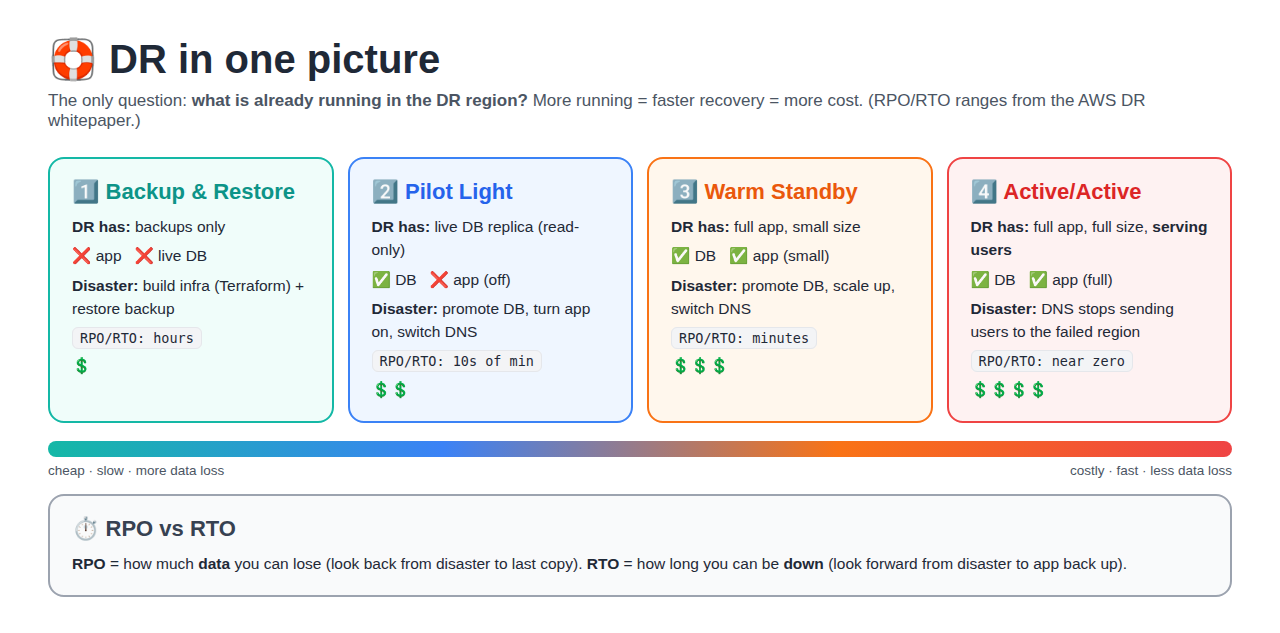
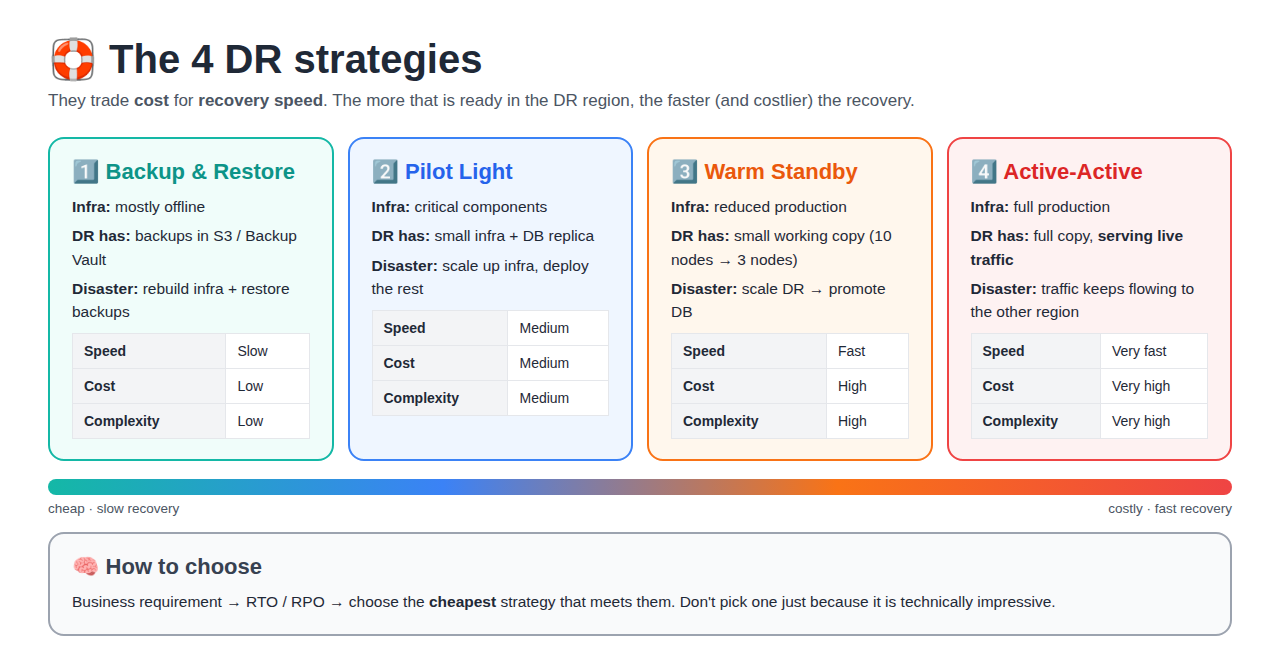
Disaster Recovery: align strategies, image and table with class notes

diff --git a/disaster-recovery/README.md b/disaster-recovery/README.md
@@ -97,95 +97,105 @@ The answers pick one of **4 strategies**, from cheap and slow to costly and inst
 
 ## 2. The 4 DR Strategies
 
+AWS groups DR into **4 strategies**. They trade **cost** for **recovery speed**.
+
 ### 1⃣ Backup & Restore
 
-**Definition:** Keep backups in another region. When disaster hits, rebuild everything from them.
+**Definition:** Take backups and **rebuild** the environment when a disaster happens.
 
 ```
-PRIMARY                       DR REGION
-App + DB  ── backups ──▶  snapshots, AMIs, S3 copies   (nothing running)
+PRIMARY REGION
+      │
+      ▼
+   Backups
+      │
+      ▼
+S3 / Backup Vault   (other region · nothing running)
 ```
 
-- **On disaster:** `terraform apply` → restore DB from snapshot → deploy app → switch DNS
-- **RPO / RTO:** hours · **Cost:** 💲 lowest
-- **Back up more than the DB:** AMIs, config and IaC code too (AWS says use IaC, or rebuild is slow)
-- **Use for:** internal tools, dev/test, reports
+- **On disaster:** rebuild infra (Terraform) → restore data from backups → deploy app → switch DNS
+- **AWS examples:** AWS Backup, S3, EBS snapshots, RDS snapshots, S3 Object Lock, cross-region backups
+- **Advantages:** low cost, simple, good for less-critical workloads
+- **Disadvantages:** slow recovery, more recovery work, higher RTO
 
-> **Interview line:** "Backup and restore keeps backups in another region and rebuilds the infra and app from them during a disaster."
+> **Interview answer:** "Backup and restore means keeping recoverable backups in another location and rebuilding the infrastructure and application when a disaster occurs."
 
 ### 2⃣ Pilot Light
 
-**Definition:** Only the core (the database) is live in the DR region. The app is **off**.
+**Definition:** Keep the **critical components ready**, but don't run the full production environment.
 
 ```
-PRIMARY                       DR REGION
-EKS / EC2 + DB ─ replication ─▶ DB replica (read-only, LIVE)
-                                 App servers OFF (0 instances)
+PRIMARY                     DR REGION
+EKS + Database              Small infrastructure
+      │                     +
+      └── replication ───▶  Database replica
 ```
 
-- **On disaster:** promote replica → writer, turn app on, switch DNS
-- **RPO / RTO:** 10s of minutes · **Cost:** 💲💲
-- **Name meaning:** like a gas stove pilot flame: small flame always on, turn up when needed
+- **On disaster:** scale up the infrastructure and deploy the rest of the environment, promote the DB, switch DNS
+- **Critical components** = data (DB replica) + core infra (VPC, small cluster). The app is **not serving** traffic yet.
+- **Name meaning:** like a gas stove pilot flame: small flame always on, turn it up when needed
 
-> **Interview line:** "Pilot light keeps the critical parts (data) ready in the DR region so the full environment can be switched on quickly."
+> **Interview answer:** "Pilot light keeps critical infrastructure and data ready in the DR region so the environment can be activated quickly during a disaster."
 
 ### 3⃣ Warm Standby
 
-**Definition:** A **small but working** copy of production always runs in the DR region.
+**Definition:** Run a **smaller working version** of production in the DR region.
 
 ```
-PRIMARY                       DR REGION
-10 nodes + DB ─ replication ─▶ 3 nodes + DB replica (read-only)
-                               already RUNNING
+PRIMARY  10 nodes
+            │ replication
+            ▼
+DR        3 nodes   (already running)
 ```
 
-- **On disaster:** promote DB → scale 3 nodes to 10 → switch DNS
-- **RPO / RTO:** minutes · **Cost:** 💲💲💲
-- **DB is still read-only** until promoted, so before failover it serves only reads / test traffic
+- **On disaster:** scale DR (3 → 10 nodes) → promote database → switch DNS
+- **DB in DR is read-only** until promoted, so before failover it serves only reads / test traffic
 
-> **Interview line:** "Warm standby runs a scaled-down but working copy of production that we scale up during failover."
+> **Interview answer:** "Warm standby maintains a scaled-down but functional version of production that can be scaled during failover."
 
 #### Pilot Light vs Warm Standby (most confused)
 
 | | Pilot Light | Warm Standby |
 |---|---|---|
-| App in DR | **Off** | **Running (small)** |
-| Can take traffic right now? | ❌ No, must switch on first | ✅ Yes, at low capacity |
-| On disaster | Turn on + scale up | Only scale up |
+| What runs in DR | Critical components only (small infra + DB replica) | Small **working** copy of the full app |
+| Can take traffic right now? | ❌ No, deploy/scale the rest first | ✅ Yes, at low capacity |
+| On disaster | Scale up + deploy the rest | Only scale up |
 
-*(AWS whitepaper: "pilot light cannot process requests without additional action, warm standby can handle traffic at reduced capacity immediately.")*
+### 4⃣ Active-Active
 
-### 4⃣ Active/Active (Multi-site)
-
-**Definition:** **Both regions run full size and serve users at the same time.**
+**Definition:** **Both environments actively serve production traffic.**
 
 ```
-              Global DNS (Route 53)
-               ┌──────┴──────┐
-           REGION A       REGION B
-             EKS            EKS
-           Database ◀─────▶ Database
+            GLOBAL DNS
+                │
+     ┌──────────┴──────────┐
+  REGION A              REGION B
+     │                     │
+    EKS                   EKS
+     │                     │
+  Database              Database
 ```
 
-- **On disaster:** DNS just stops sending users to the failed region (no real "failover")
-- **RPO / RTO:** near zero · **Cost:** 💲💲💲💲 highest, most complex
-- **DB must accept writes in both regions:** DynamoDB Global Tables (Aurora Global = one writer + fast promote)
-- **Use for:** payments, banking, big e-commerce
+- **On disaster:** traffic keeps flowing through the other region
+- **Advantages:** very fast recovery, no break for users if one region fails
+- **Disadvantages:** highest cost, highest complexity, data consistency challenges (both DBs take writes), more operations work
+- **DB for writes in both regions:** DynamoDB Global Tables
 
-> **Interview line:** "Active-active runs the workload in multiple regions at once, so if one fails, traffic continues through the other."
+> **Interview answer:** "Active-active runs workloads in multiple locations simultaneously so traffic can continue through another location if one fails."
 
 ---
 
 ## 3. Comparison Table
 
-| Strategy | What runs in DR | RPO / RTO (AWS) | Cost | Complexity |
+| Strategy | Infrastructure | Recovery Speed | Cost | Complexity |
 |---|---|---|---|---|
-| Backup & Restore | Only backups | Hours | Low | Low |
-| Pilot Light | DB replica (app off) | 10s of minutes | Medium | Medium |
-| Warm Standby | Small full stack | Minutes | High | High |
-| Active/Active | Full stack, serving users | Near zero | Very high | Very high |
+| Backup & Restore | Mostly offline | Slow | Low | Low |
+| Pilot Light | Critical components | Medium | Medium | Medium |
+| Warm Standby | Reduced production | Fast | High | High |
+| Active-Active | Full production | Very fast | Very high | Very high |
 
-> These are rough ranges. Real numbers depend on the app and how well it is automated.
+> These are **relative** comparisons. Actual recovery times depend on the workload and implementation.
+> For a rough idea, the AWS whitepaper gives RPO/RTO of: hours · tens of minutes · minutes · near zero.
 
 ---
 
@@ -242,16 +252,16 @@ Don't pick the most impressive one. Pick the **cheapest one that meets the RTO/R
 ### ⭐ Very Important (asked in class)
 
 **Q1. Explain the 4 DR strategies.**
-Backup & Restore (only backups, rebuild on disaster, hours) → Pilot Light (live DB replica, app off, 10s of minutes) → Warm Standby (small working copy, scale up, minutes) → Active/Active (both regions serve users, near zero). More running in DR = faster recovery = more cost.
+Backup & Restore (keep backups, rebuild on disaster: slow, low cost) → Pilot Light (critical components ready: small infra + DB replica: medium) → Warm Standby (smaller working copy, scale up and promote DB: fast) → Active-Active (both regions serve traffic: very fast, very high cost). Faster recovery costs more.
 
 **Q2. How do you choose a DR strategy?**
-Start from the business's RTO/RPO, then the budget. Choose the cheapest strategy that meets the target.
+Start from the business's RTO/RPO, then the budget. Choose the cheapest strategy that meets the target. Don't choose one just because it is technically impressive.
 
 ### Other Questions
 
 **Q1. RPO vs RTO?** RPO = max data loss (time since last copy). RTO = max downtime.
 
-**Q2. Pilot Light vs Warm Standby?** Pilot light: app is off, must be switched on. Warm standby: app already runs small, only scale up.
+**Q2. Pilot Light vs Warm Standby?** Pilot light: only critical components ready, deploy/scale the rest. Warm standby: small working copy already runs, only scale up.
 
 **Q3. HA vs DR?** HA = one server/AZ fails, handled inside the region. DR = whole region lost, move to another region.
 
